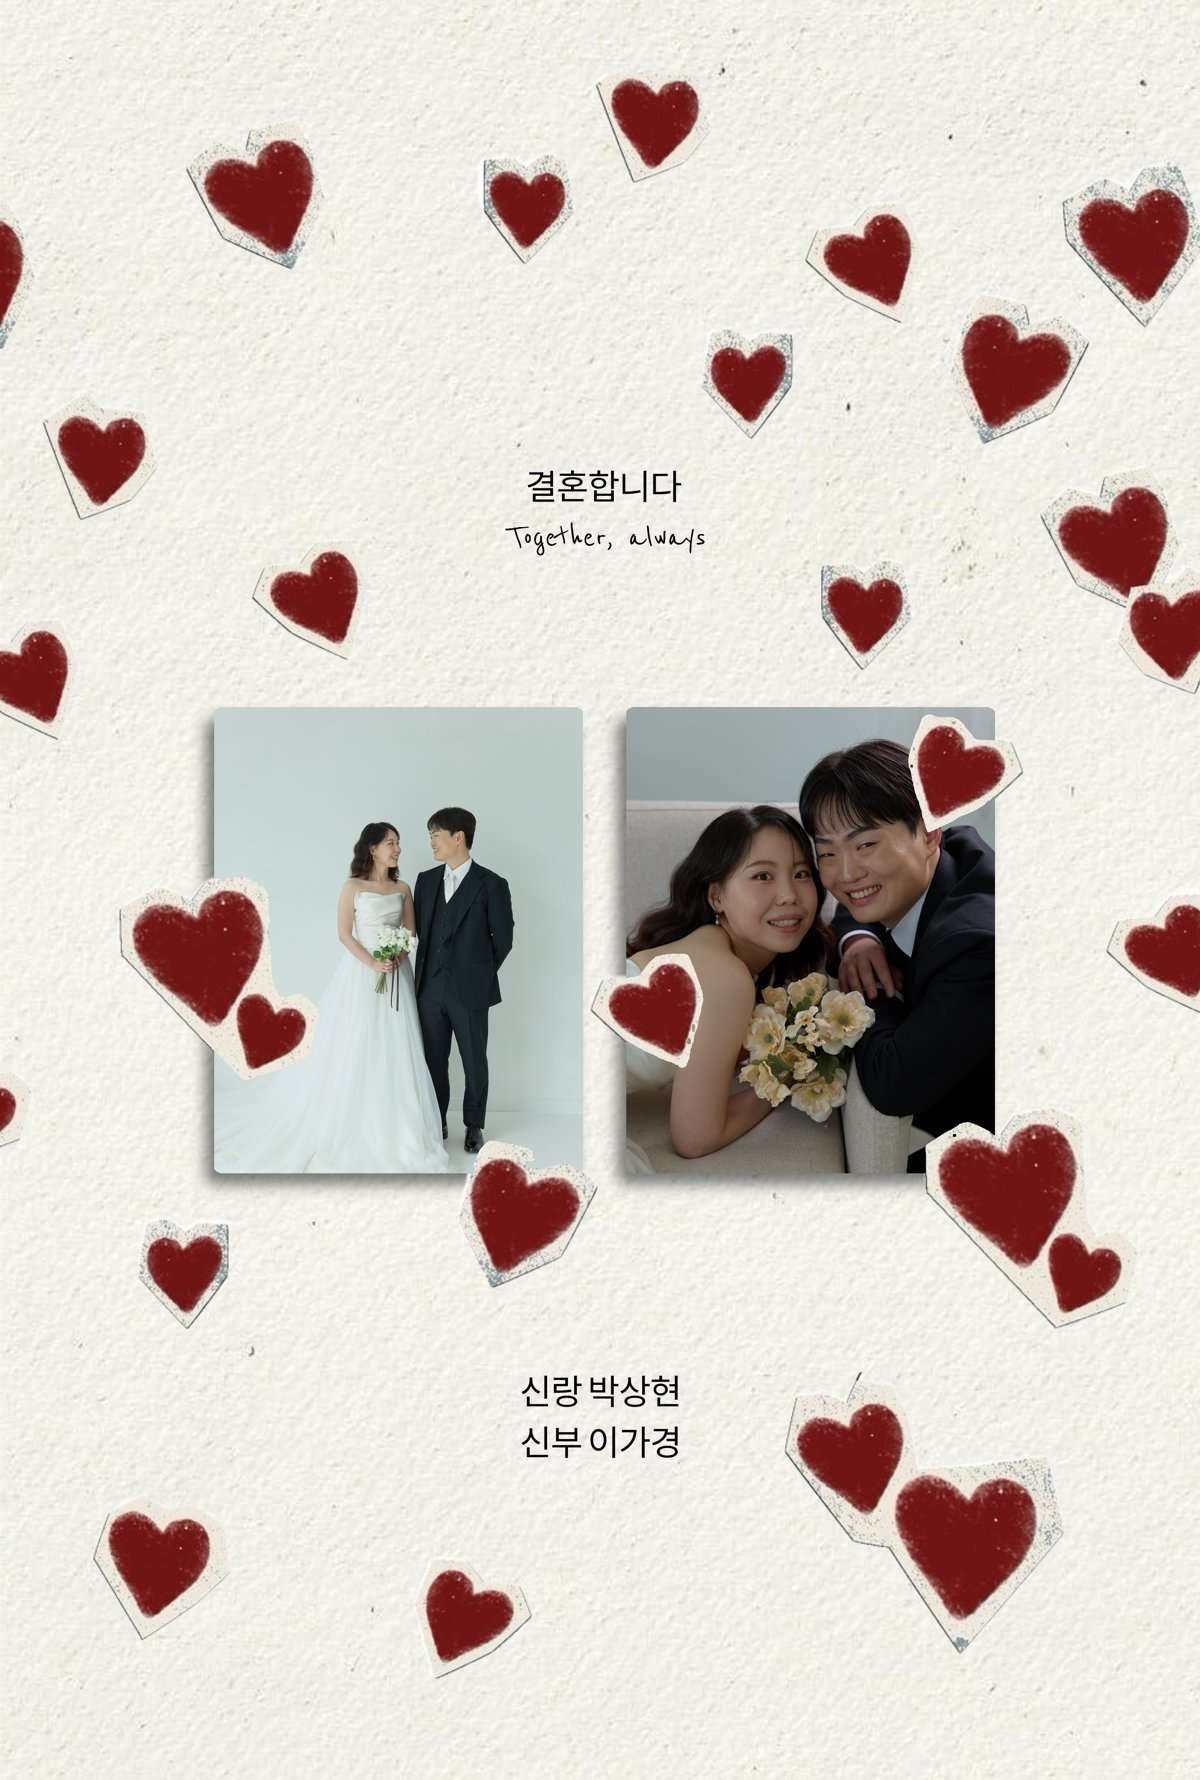
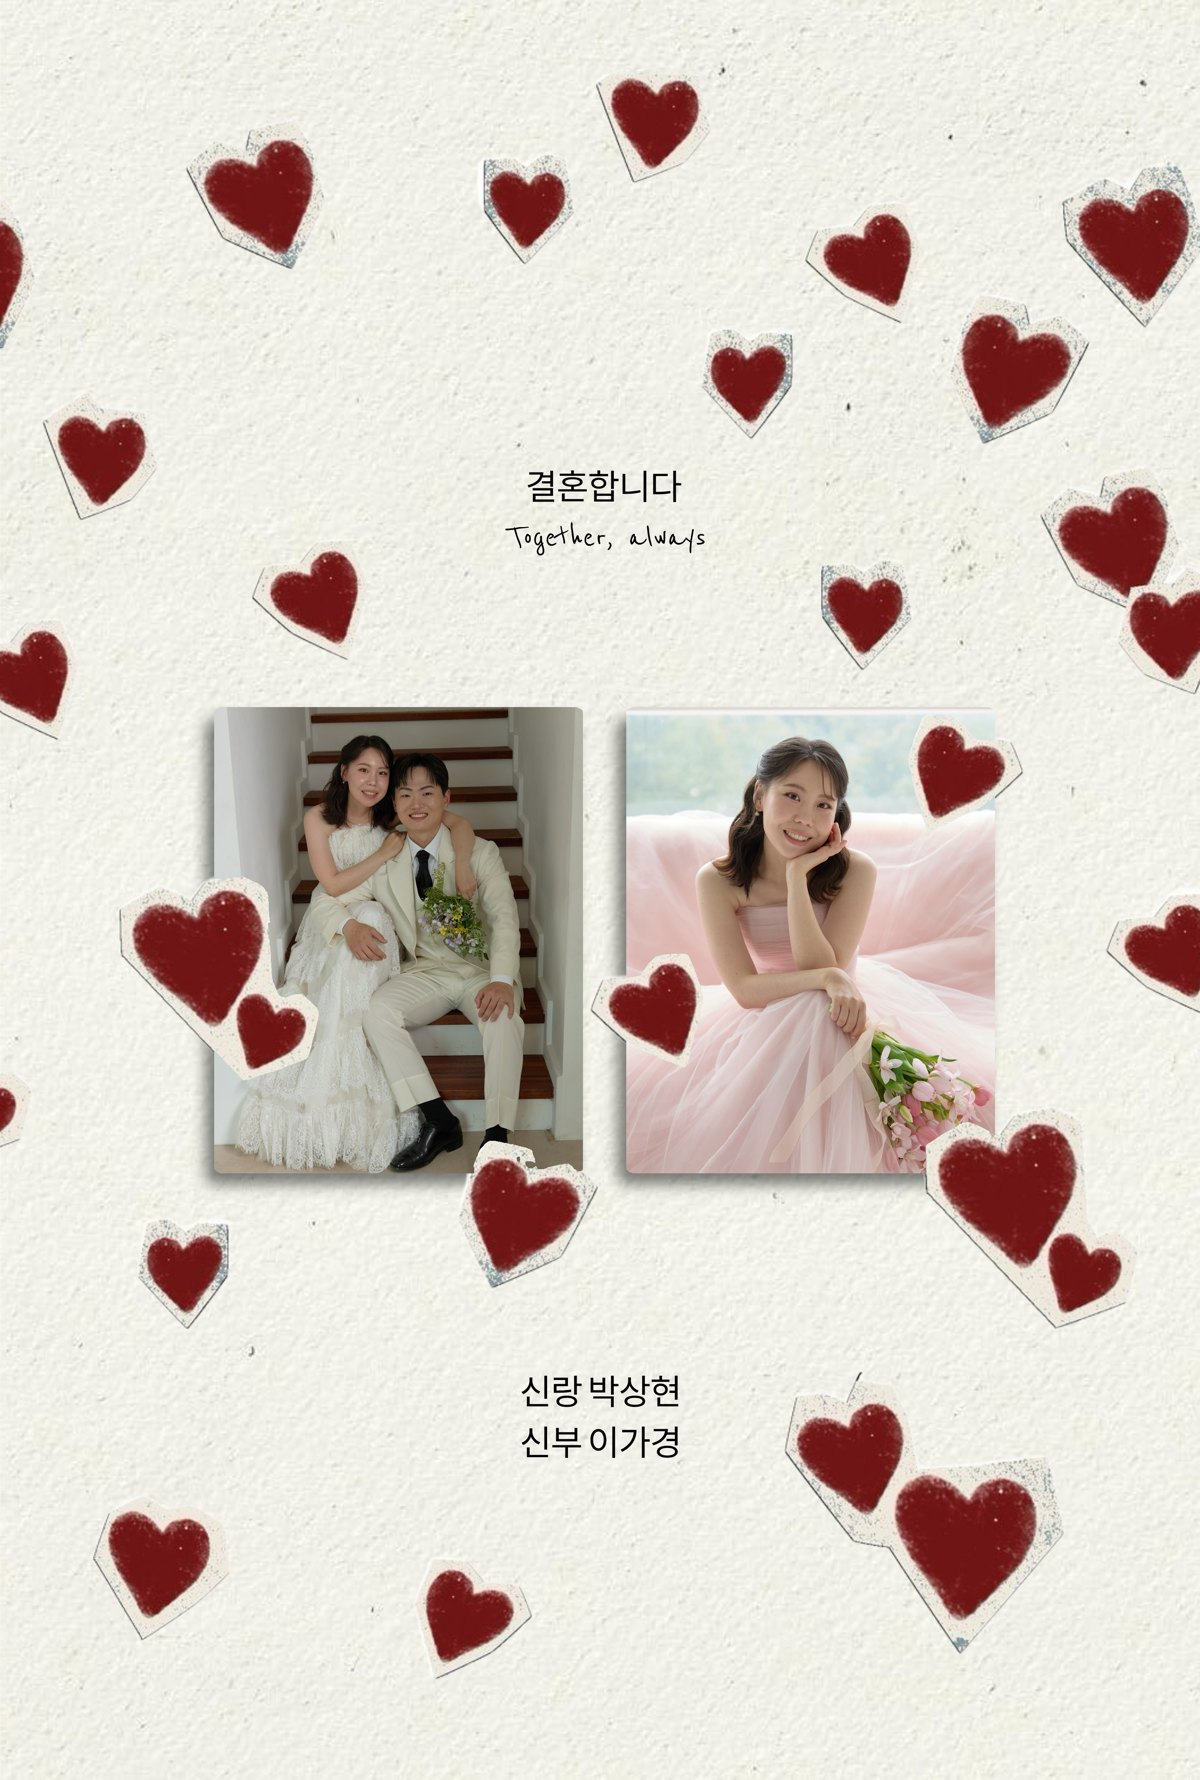
Update cover photos: stairs couple photo and pink dress bride photo

Changed region(s): [[0.5242, 0.3708, 0.8325, 0.6798], [0.185, 0.3708, 0.4933, 0.6798]]

diff --git a/index.html b/index.html
@@ -6,7 +6,7 @@
 <title>박상현 ♥ 이가경 결혼합니다</title>
 <meta property="og:title" content="박상현 ♥ 이가경 결혼합니다">
 <meta property="og:description" content="2027년 2월 13일 토요일 낮 12시 10분">
-<meta property="og:image" content="img/cover.jpg">
+<meta property="og:image" content="img/cover.jpg?v=2">
 <link rel="preconnect" href="https://fonts.googleapis.com">
 <link rel="preconnect" href="https://fonts.gstatic.com" crossorigin>
 <link href="https://fonts.googleapis.com/css2?family=Gaegu:wght@400;700&family=Gowun+Batang:wght@400;700&family=Nothing+You+Could+Do&family=Reenie+Beanie&display=swap" rel="stylesheet">
@@ -22,7 +22,7 @@
 
   <!-- 1. 인트로 -->
   <section class="intro" id="intro">
-    <img src="img/cover.jpg" alt="박상현 이가경 결혼합니다">
+    <img src="img/cover.jpg?v=2" alt="박상현 이가경 결혼합니다">
   </section>
 
   <!-- 2. Our Wedding day -->
